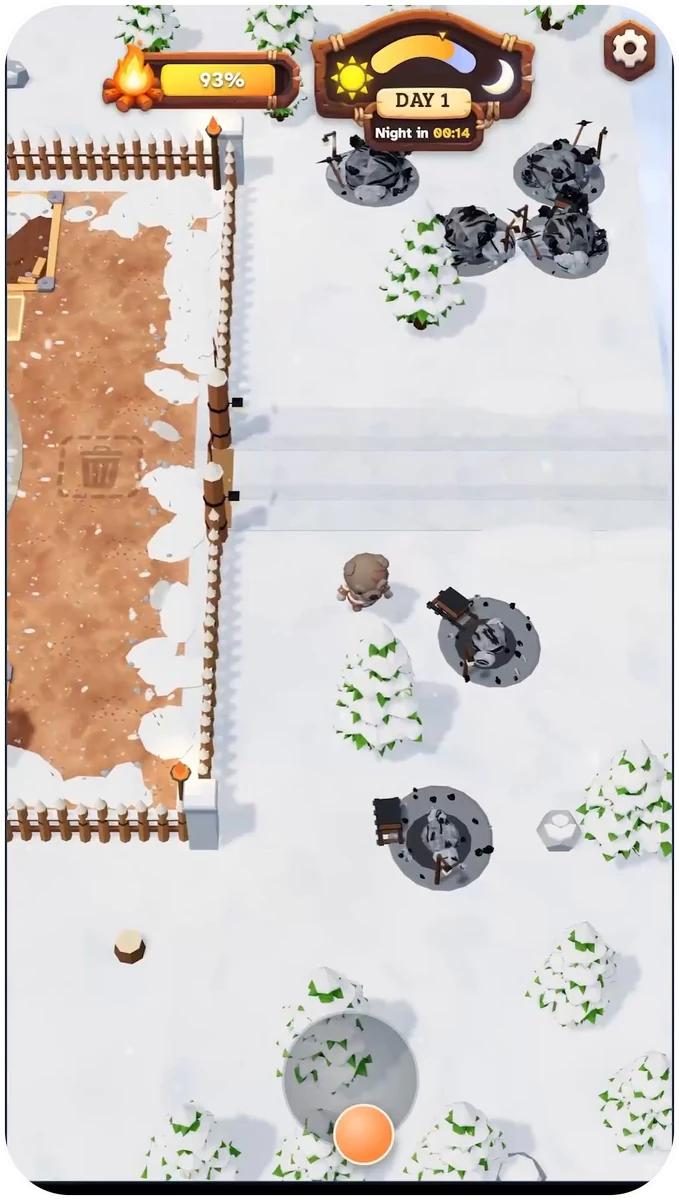
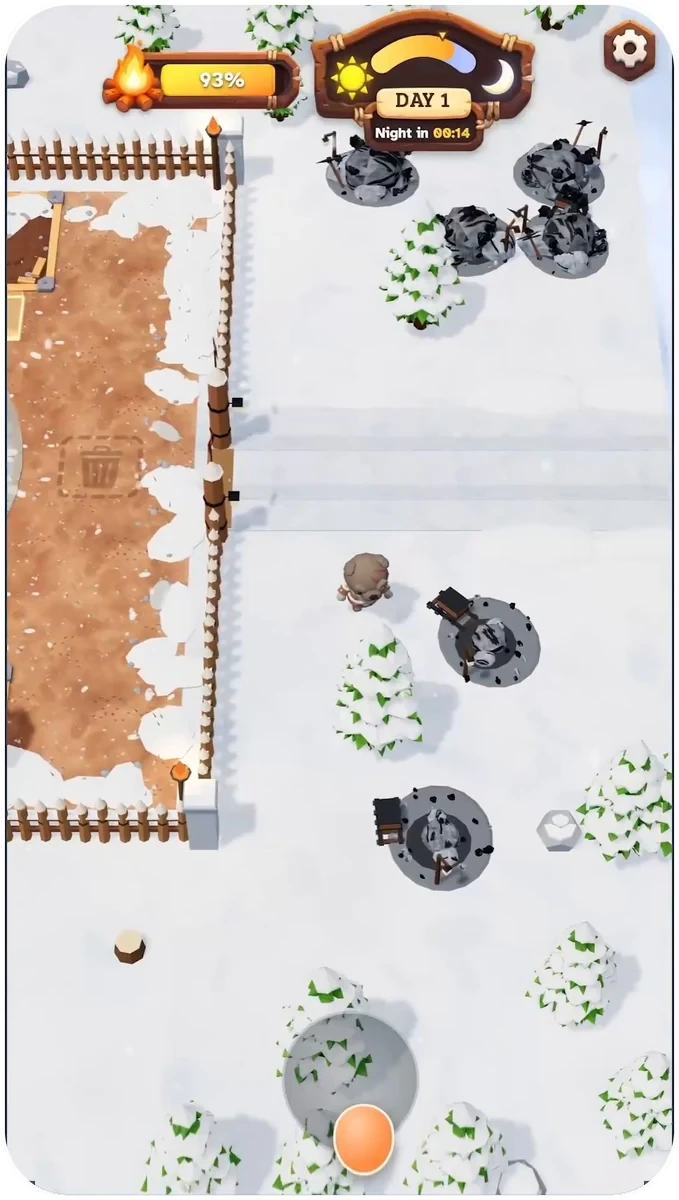
Emberborn: remove the black strip at the bottom of the game screenshots

Changed region(s): [[0.0619, 0.925, 0.9588, 1.0]]

diff --git a/projects/blast-defence/index.html b/projects/blast-defence/index.html
@@ -13,8 +13,8 @@
   <link rel="preconnect" href="https://fonts.gstatic.com" crossorigin>
   <link href="https://fonts.googleapis.com/css2?family=Bricolage+Grotesque:opsz,wght@12..96,500;12..96,700&family=Instrument+Sans:wght@400;500;600&display=swap" rel="stylesheet">
   <script>document.documentElement.classList.add("js");</script>
-  <link rel="stylesheet" href="../../style.css?v=86">
-  <link rel="stylesheet" href="../../project.css?v=86">
+  <link rel="stylesheet" href="../../style.css?v=87">
+  <link rel="stylesheet" href="../../project.css?v=87">
 </head>
 <body class="project-page">
   <a class="skip" href="#overview" id="skip-link">Skip to content</a>
@@ -40,8 +40,8 @@
     <button type="button" class="lb-nav lb-next" id="lb-next" aria-label="Next"></button>
   </dialog>
 
-  <script src="../../content.js?v=86"></script>
-  <script src="../../project.js?v=86"></script>
-  <script src="../../analytics.js?v=86"></script>
+  <script src="../../content.js?v=87"></script>
+  <script src="../../project.js?v=87"></script>
+  <script src="../../analytics.js?v=87"></script>
 </body>
 </html>

diff --git a/projects/emberborn/index.html b/projects/emberborn/index.html
@@ -13,8 +13,8 @@
   <link rel="preconnect" href="https://fonts.gstatic.com" crossorigin>
   <link href="https://fonts.googleapis.com/css2?family=Bricolage+Grotesque:opsz,wght@12..96,500;12..96,700&family=Instrument+Sans:wght@400;500;600&display=swap" rel="stylesheet">
   <script>document.documentElement.classList.add("js");</script>
-  <link rel="stylesheet" href="../../style.css?v=86">
-  <link rel="stylesheet" href="../../project.css?v=86">
+  <link rel="stylesheet" href="../../style.css?v=87">
+  <link rel="stylesheet" href="../../project.css?v=87">
 </head>
 <body class="project-page">
   <a class="skip" href="#overview" id="skip-link">Skip to content</a>
@@ -40,8 +40,8 @@
     <button type="button" class="lb-nav lb-next" id="lb-next" aria-label="Next"></button>
   </dialog>
 
-  <script src="../../content.js?v=86"></script>
-  <script src="../../project.js?v=86"></script>
-  <script src="../../analytics.js?v=86"></script>
+  <script src="../../content.js?v=87"></script>
+  <script src="../../project.js?v=87"></script>
+  <script src="../../analytics.js?v=87"></script>
 </body>
 </html>

diff --git a/projects/lift-rush/index.html b/projects/lift-rush/index.html
@@ -13,8 +13,8 @@
   <link rel="preconnect" href="https://fonts.gstatic.com" crossorigin>
   <link href="https://fonts.googleapis.com/css2?family=Bricolage+Grotesque:opsz,wght@12..96,500;12..96,700&family=Instrument+Sans:wght@400;500;600&display=swap" rel="stylesheet">
   <script>document.documentElement.classList.add("js");</script>
-  <link rel="stylesheet" href="../../style.css?v=86">
-  <link rel="stylesheet" href="../../project.css?v=86">
+  <link rel="stylesheet" href="../../style.css?v=87">
+  <link rel="stylesheet" href="../../project.css?v=87">
 </head>
 <body class="project-page">
   <a class="skip" href="#overview" id="skip-link">Skip to content</a>
@@ -40,8 +40,8 @@
     <button type="button" class="lb-nav lb-next" id="lb-next" aria-label="Next"></button>
   </dialog>
 
-  <script src="../../content.js?v=86"></script>
-  <script src="../../project.js?v=86"></script>
-  <script src="../../analytics.js?v=86"></script>
+  <script src="../../content.js?v=87"></script>
+  <script src="../../project.js?v=87"></script>
+  <script src="../../analytics.js?v=87"></script>
 </body>
 </html>

diff --git a/projects/move-it-all/index.html b/projects/move-it-all/index.html
@@ -13,8 +13,8 @@
   <link rel="preconnect" href="https://fonts.gstatic.com" crossorigin>
   <link href="https://fonts.googleapis.com/css2?family=Bricolage+Grotesque:opsz,wght@12..96,500;12..96,700&family=Instrument+Sans:wght@400;500;600&display=swap" rel="stylesheet">
   <script>document.documentElement.classList.add("js");</script>
-  <link rel="stylesheet" href="../../style.css?v=86">
-  <link rel="stylesheet" href="../../project.css?v=86">
+  <link rel="stylesheet" href="../../style.css?v=87">
+  <link rel="stylesheet" href="../../project.css?v=87">
 </head>
 <body class="project-page">
   <a class="skip" href="#overview" id="skip-link">Skip to content</a>
@@ -40,8 +40,8 @@
     <button type="button" class="lb-nav lb-next" id="lb-next" aria-label="Next"></button>
   </dialog>
 
-  <script src="../../content.js?v=86"></script>
-  <script src="../../project.js?v=86"></script>
-  <script src="../../analytics.js?v=86"></script>
+  <script src="../../content.js?v=87"></script>
+  <script src="../../project.js?v=87"></script>
+  <script src="../../analytics.js?v=87"></script>
 </body>
 </html>

diff --git a/projects/royal-words/index.html b/projects/royal-words/index.html
@@ -13,8 +13,8 @@
   <link rel="preconnect" href="https://fonts.gstatic.com" crossorigin>
   <link href="https://fonts.googleapis.com/css2?family=Bricolage+Grotesque:opsz,wght@12..96,500;12..96,700&family=Instrument+Sans:wght@400;500;600&display=swap" rel="stylesheet">
   <script>document.documentElement.classList.add("js");</script>
-  <link rel="stylesheet" href="../../style.css?v=86">
-  <link rel="stylesheet" href="../../project.css?v=86">
+  <link rel="stylesheet" href="../../style.css?v=87">
+  <link rel="stylesheet" href="../../project.css?v=87">
 </head>
 <body class="project-page">
   <a class="skip" href="#overview" id="skip-link">Skip to content</a>
@@ -40,8 +40,8 @@
     <button type="button" class="lb-nav lb-next" id="lb-next" aria-label="Next"></button>
   </dialog>
 
-  <script src="../../content.js?v=86"></script>
-  <script src="../../project.js?v=86"></script>
-  <script src="../../analytics.js?v=86"></script>
+  <script src="../../content.js?v=87"></script>
+  <script src="../../project.js?v=87"></script>
+  <script src="../../analytics.js?v=87"></script>
 </body>
 </html>

diff --git a/projects/subway-flow/index.html b/projects/subway-flow/index.html
@@ -13,8 +13,8 @@
   <link rel="preconnect" href="https://fonts.gstatic.com" crossorigin>
   <link href="https://fonts.googleapis.com/css2?family=Bricolage+Grotesque:opsz,wght@12..96,500;12..96,700&family=Instrument+Sans:wght@400;500;600&display=swap" rel="stylesheet">
   <script>document.documentElement.classList.add("js");</script>
-  <link rel="stylesheet" href="../../style.css?v=86">
-  <link rel="stylesheet" href="../../project.css?v=86">
+  <link rel="stylesheet" href="../../style.css?v=87">
+  <link rel="stylesheet" href="../../project.css?v=87">
 </head>
 <body class="project-page">
   <a class="skip" href="#overview" id="skip-link">Skip to content</a>
@@ -40,8 +40,8 @@
     <button type="button" class="lb-nav lb-next" id="lb-next" aria-label="Next"></button>
   </dialog>
 
-  <script src="../../content.js?v=86"></script>
-  <script src="../../project.js?v=86"></script>
-  <script src="../../analytics.js?v=86"></script>
+  <script src="../../content.js?v=87"></script>
+  <script src="../../project.js?v=87"></script>
+  <script src="../../analytics.js?v=87"></script>
 </body>
 </html>

diff --git a/index.html b/index.html
@@ -13,7 +13,7 @@
   <link rel="preconnect" href="https://fonts.gstatic.com" crossorigin>
   <link href="https://fonts.googleapis.com/css2?family=Bricolage+Grotesque:opsz,wght@12..96,500;12..96,700&family=Instrument+Sans:wght@400;500;600&display=swap" rel="stylesheet">
   <script>document.documentElement.classList.add("js");</script>
-  <link rel="stylesheet" href="style.css?v=86">
+  <link rel="stylesheet" href="style.css?v=87">
 </head>
 <body>
   <a class="skip" href="#about" id="skip-link">Skip to content</a>
@@ -299,9 +299,9 @@
     </div>
   </footer>
 
-  <script src="content.js?v=86"></script>
-  <script src="script.js?v=86"></script>
-  <script src="analytics.js?v=86"></script>
-  <script type="module" src="cv.js?v=86"></script>
+  <script src="content.js?v=87"></script>
+  <script src="script.js?v=87"></script>
+  <script src="analytics.js?v=87"></script>
+  <script type="module" src="cv.js?v=87"></script>
 </body>
 </html>

diff --git a/content.js b/content.js
@@ -635,9 +635,9 @@ window.SITE = {
           banner: "assets/projects/emberborn/banner.webp",
           logo: "assets/projects/emberborn/logo.webp",
           phones: [
-            "assets/projects/emberborn/phone-1.webp",
-            "assets/projects/emberborn/phone-2.webp",
-            "assets/projects/emberborn/phone-3.webp"
+            "assets/projects/emberborn/phone-1.webp?v=2",
+            "assets/projects/emberborn/phone-2.webp?v=2",
+            "assets/projects/emberborn/phone-3.webp?v=2"
           ],
           short: "An arcade idle survival game: keep the bonfire burning and defend the village at night.",
           // Project page
